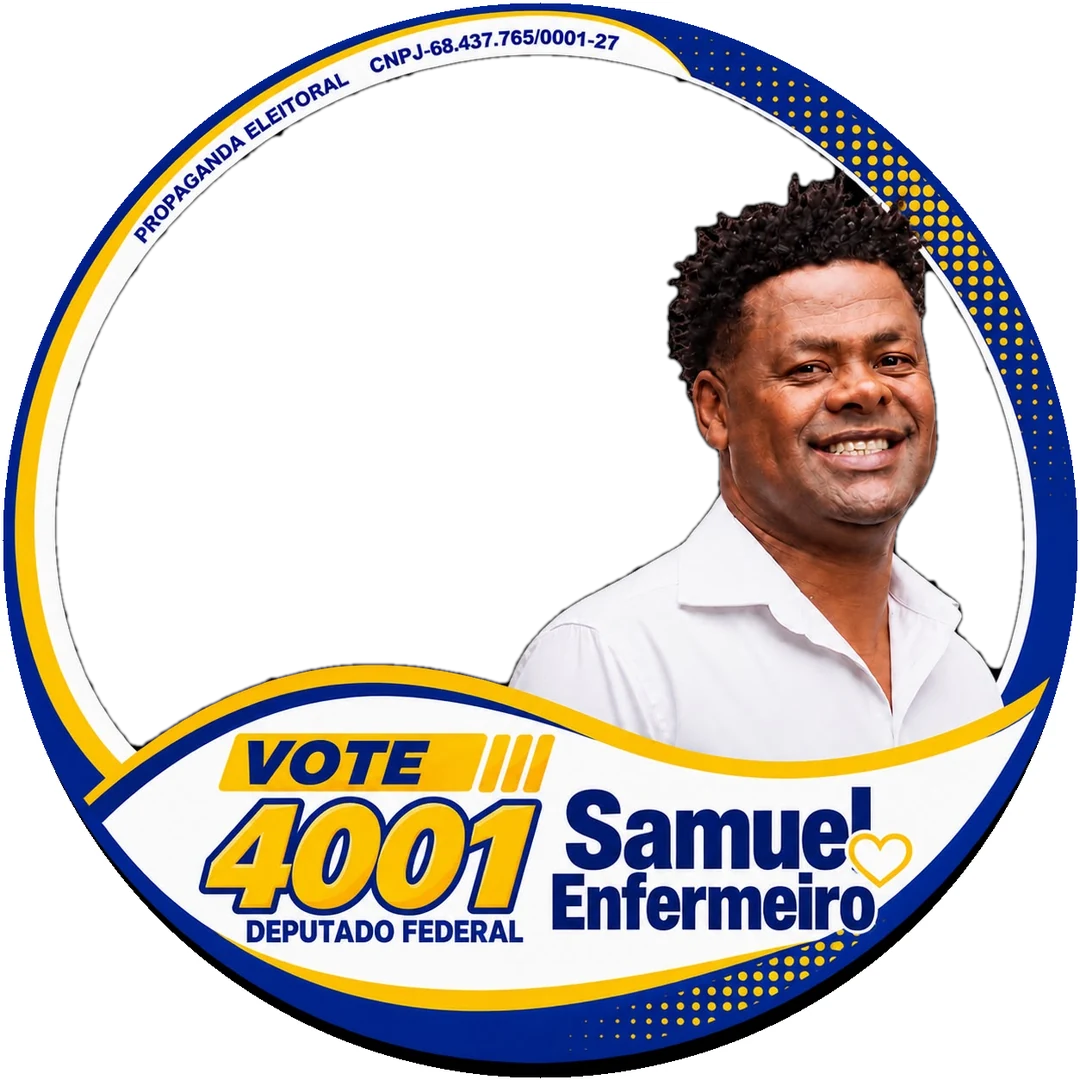
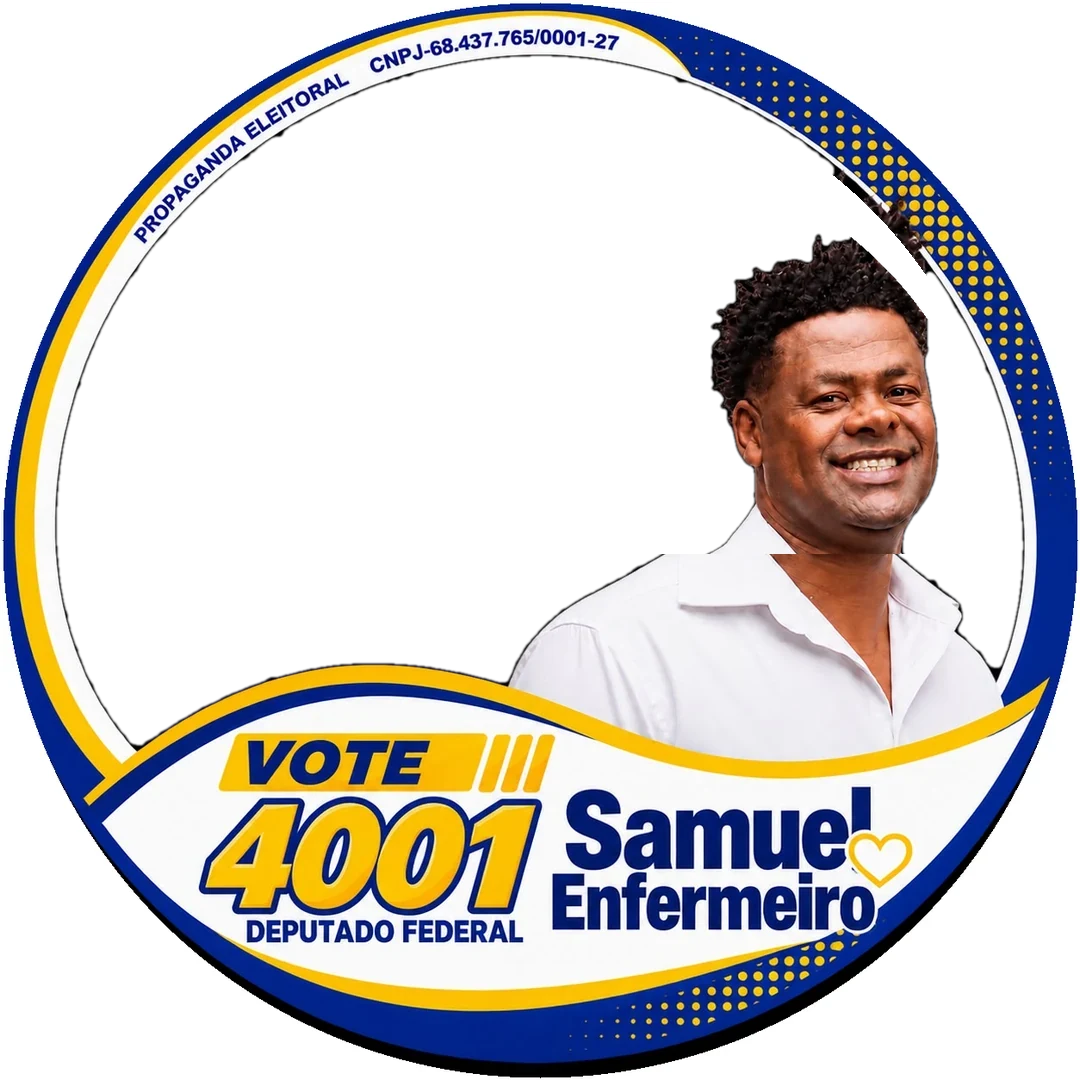
Reduz o candidato na moldura de perfil, abrindo espaço para a foto
Na foto de perfil ele ocupava boa parte do círculo, e sobrava pouco da
pessoa. Reduzido para 84%, ancorado pela base e pela direita, mantendo o
apoio na faixa. O buraco cresce de 32,4% para 33,4% da arte.

Detalhe do caminho: recortar o candidato até y=772 arrastava junto o topo
da faixa e o "VOTE" aparecia duplicado ao ser reposicionado. O corte
passa a ser detectado pelo dourado da faixa (y=554), e faixa e anel são
redesenhados por cima a partir do original.

Sobre as manchas na camisa: medi a diferença entre a arte no app e a
fonte, na região da camisa. Média de 1,8 a 3 pontos em 255, p95 entre 5 e
10 — o WebP não está degradando nada. As sombras e vincos estão na
fotografia original do candidato.

Changed region(s): [[0.6111, 0.1528, 0.8861, 0.5194], [0.6111, 0.4889, 0.6417, 0.5194]]

diff --git a/index.html b/index.html
@@ -353,7 +353,7 @@
       cx: 405, cy: 635, rx: 405, ry: 462, focoX: 405,
       arquivo: "samuel-enfermeiro-story.png", src: "assets/molduras/story-azul.webp" },
     { grupo: "formato", indice: 0, nome: "Foto de perfil", W: 1080, H: 1080,
-      cx: 540, cy: 400, rx: 484, ry: 345, focoX: 470,
+      cx: 540, cy: 400, rx: 482, ry: 344, focoX: 455,
       arquivo: "samuel-enfermeiro-perfil.png", src: "assets/molduras/perfil-1x1.webp" },
     { grupo: "formato", indice: 1, nome: "Post do Instagram", W: 864, H: 1079,
       cx: 434, cy: 400, rx: 428, ry: 340, focoX: 434,
